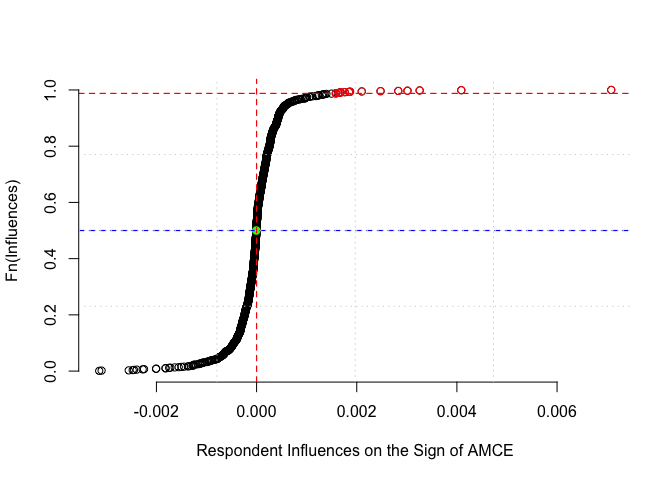
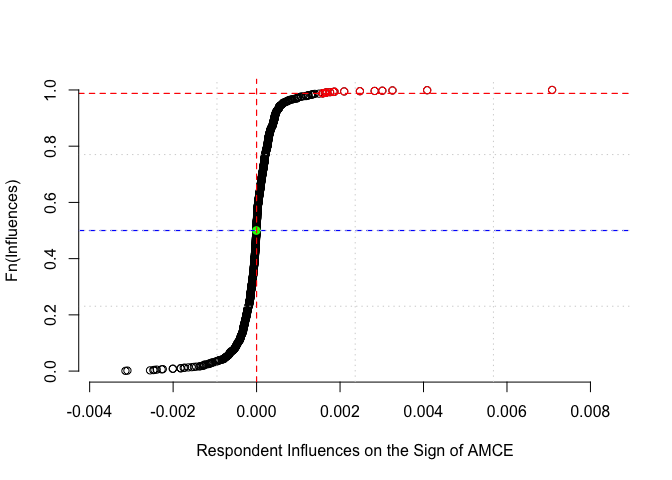
Update README

diff --git a/README.md b/README.md
@@ -7,7 +7,35 @@
 
 <!-- badges: end -->
 
-This package is developed to …
+This package is developed to evaluate the robustness of conjoint
+analysis results to the removal of small fractions of respondents and
+experimentally generated unique contests.
+
+Our package is built on `zaminfluence` to calculate influence scores and
+detect the most influential respondents and contests in conjoint
+designs.
+
+We provide a simple example to demonstrate how to use
+`ConjointSensitivity` using the replication data for the non-partisan
+YouGov experiment in Kirkland and Coppock (2018).
+
+## References
+
+- **zaminfluence Package & Methodology:** Broderick, T., Giordano, R., &
+  Meager, R. (2020). *An Automatic Finite-Sample Robustness Metric: When
+  Can Dropping a Little Data Make a Big Difference?*
+
+- **Kirkland and Coppock (2018) Data:** Kirkland, P. A., & Coppock, A.
+  (2018). *Candidate choice without party labels: new insights from
+  conjoint survey experiments*. Political Behavior, 40, 571–591.
+
+## Citation
+
+If you use `ConjointSensitivity` in your research, please cite our
+paper:
+
+Abramson, S., & Zafer, B. (2026) *Do Voters Prefer Women and Young
+Candidates? Re-evaluating Evidence from Conjoint Experiments*
 
 ## Installation
 
@@ -26,7 +54,7 @@ Coppock (2018).
 
 ``` r
 library(ConjointSensitivity)
-library(dplyr, quietly = T)
+library(dplyr, verbose = F)
 #> 
 #> Attaching package: 'dplyr'
 #> The following objects are masked from 'package:stats':
@@ -80,16 +108,7 @@ respondent_results$DroppedRespondents
 #### Visualising the Respondent Influences CDF
 
 ``` r
-plot_cdf_respondent_influences(
-  fit.lm = fit.lm,
-  segroup = df$caseid,
-<<<<<<< HEAD
-  var_interest = "cand_female",
-  ndrop = 14
-=======
-  var_interest = "cand_female"
->>>>>>> temp-update
-)
+plot_cdf_respondent_influences(fit.lm = fit.lm, segroup = df$caseid, var_interest = "cand_female", ndrop = 14)
 ```
 
 <img src="man/figures/README-plot-1.png" width="100%" />
